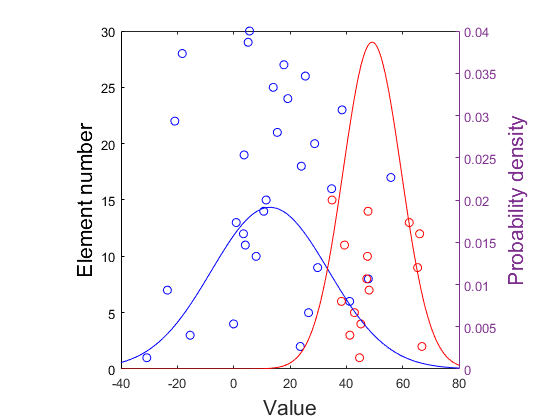
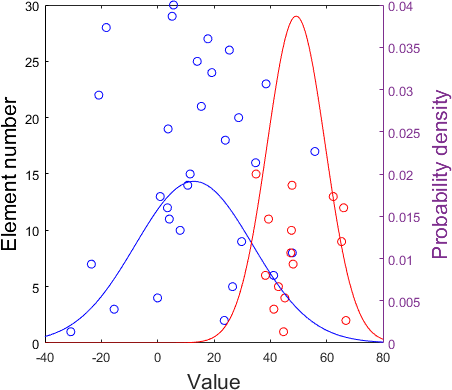
I don't remember

diff --git a/Assignment4/matlab/main.m b/Assignment4/matlab/main.m
@@ -1,7 +1,7 @@
 normdist = load('normdist(1).mat');
 
 % plotScatter(normdist.S1, normdist.S2, normdist.T);
-% plotNormalDistributions(normdist.S1, normdist.S2);
+ plotNormalDistributions(normdist.S1, normdist.S2);
 
 [size1, ~] = size(normdist.S1);
 [size2, ~] = size(normdist.S2);
